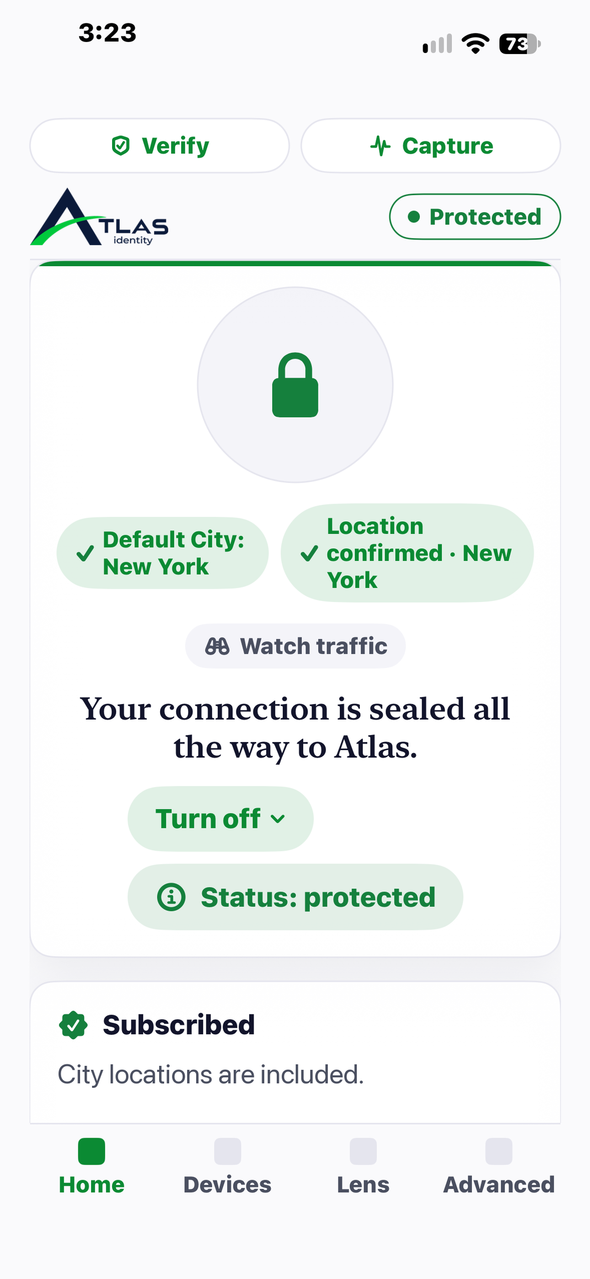
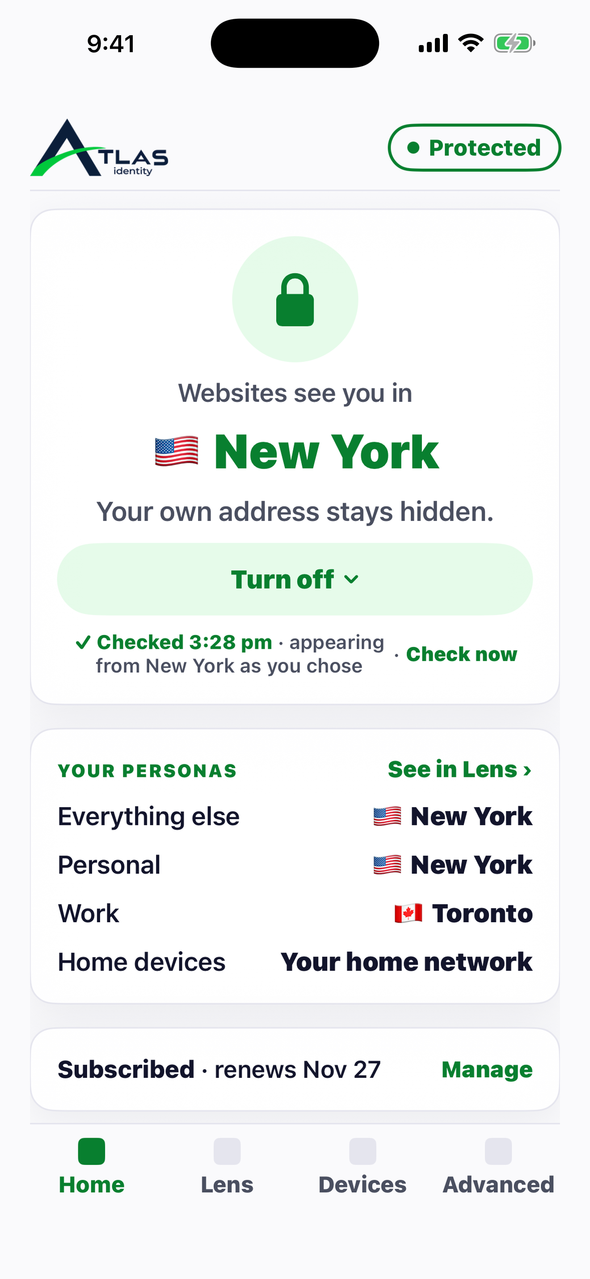
Site: new app screenshots on how-it-works (owner waived mock-up for this swap) (#1155)

diff --git a/atlas/how-it-works/index.html b/atlas/how-it-works/index.html
@@ -197,10 +197,10 @@
       </div>
     </div>
     <ul class="hiw-shots" aria-label="The ATLAS identity app on an iPhone">
-      <li><figure><picture><source srcset="../../assets/app/home.webp" type="image/webp"><img loading="lazy" decoding="async" width="590" height="1279" src="../../assets/app/home.png" alt="ATLAS identity Home screen on an iPhone: Protected, default city New York, location confirmed in New York, connection sealed all the way to Atlas."></picture><figcaption>Home: Protected, and the city confirmed.</figcaption></figure></li>
-      <li><figure><picture><source srcset="../../assets/app/paths.webp" type="image/webp"><img loading="lazy" decoding="async" width="590" height="1279" src="../../assets/app/paths.png" alt="ATLAS identity Your paths screen: Default City New York, Personal New York, Work Toronto."></picture><figcaption>Your paths: a city for each persona.</figcaption></figure></li>
-      <li><figure><picture><source srcset="../../assets/app/devices.webp" type="image/webp"><img loading="lazy" decoding="async" width="590" height="1279" src="../../assets/app/devices.png" alt="ATLAS identity Devices screen listing the devices on one account, each with a Remove button."></picture><figcaption>Devices: one account, every device you own.</figcaption></figure></li>
-      <li><figure><picture><source srcset="../../assets/app/advanced.webp" type="image/webp"><img loading="lazy" decoding="async" width="590" height="1279" src="../../assets/app/advanced.png" alt="ATLAS identity Advanced screen: protection on, active path New York, 5 devices."></picture><figcaption>Advanced: what is on, and where.</figcaption></figure></li>
+      <li><figure><picture><source srcset="../../assets/app/home.webp" type="image/webp"><img loading="lazy" decoding="async" width="590" height="1279" src="../../assets/app/home.png" alt="ATLAS identity Home screen on an iPhone: Protected, websites see you in New York with the American flag, and your personas listed below."></picture><figcaption>Home: Protected, and the city websites see.</figcaption></figure></li>
+      <li><figure><picture><source srcset="../../assets/app/paths.webp" type="image/webp"><img loading="lazy" decoding="async" width="590" height="1279" src="../../assets/app/paths.png" alt="ATLAS identity Lens screen: Everything else New York, Personal New York, Work Toronto, Home through your own network."></picture><figcaption>Lens: a city for each persona.</figcaption></figure></li>
+      <li><figure><picture><source srcset="../../assets/app/devices.webp" type="image/webp"><img loading="lazy" decoding="async" width="590" height="1279" src="../../assets/app/devices.png" alt="ATLAS identity Devices screen listing the phones and computers on one account, plus Atlas-Home and Atlas-Travel units."></picture><figcaption>Devices: one account, every device you own.</figcaption></figure></li>
+      <li><figure><picture><source srcset="../../assets/app/advanced.webp" type="image/webp"><img loading="lazy" decoding="async" width="590" height="1279" src="../../assets/app/advanced.png" alt="ATLAS identity Advanced screen: cleaning what you visit, tools, and help."></picture><figcaption>Advanced: tools and help.</figcaption></figure></li>
     </ul>
   </div>
 </section>
